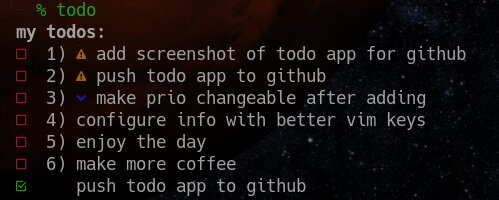
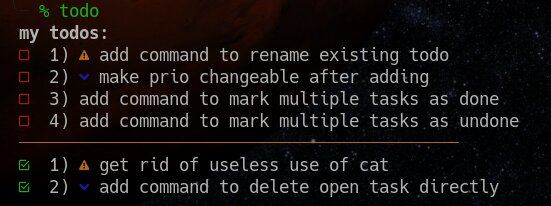
added trash command

diff --git a/README.md b/README.md
@@ -7,11 +7,12 @@ wanting to learn coreutils.
 
 ## usage
 
-* `todo` lists currently open and completed tasks
-* `todo add some task` adds 'some task' to the list of open tasks
-* `todo done N` marks the Nth task as completed
-* `todo undo N` marks the Nth completed task as not done
-* `todo clean` purges completed tasks off the lists
+* `todo.zsh`                  prints current open and completed todos
+* `todo.zsh add some task`    adds 'some task' as open todo
+* `todo.zsh clean`            clears completed todos off the list
+* `todo.zsh done N`           marks the Nth todo as completed
+* `todo.zsh trash N`          deletes the Nth open todo
+* `todo.zsh undo N`           marks the Nth completed todo as not done
 
 You can mark a task as high priority by including `:high:` somewhere
 in the task name. Similarily you can mark a task as low priority by
@@ -33,6 +34,16 @@ creating a directory like `~/.todos` manually and changing the `FILE_DIR`
 variable to an absolute path. Files will be automatically created if they
 don't exist.
 
-You might also want to symlink the `todo` script to `~/.local/bin` or 
-another directory in your `PATH` for ease of access.
+You might also want to symlink the `todo.zsh` script to `~/.local/bin/todo`
+or another directory in your `PATH` for ease of access.
+
+## upgrading
+
+As always, it is good practice to make backups of the `todo.txt` and `done.txt`
+files before upgrading this application.
+
+I've changed the way the content of both tiles is interpreted after v1.0.0:
+If you upgrade from v1.0.0 or earlier, an upgrade works fine if you `todo.zsh clean`
+before the upgrade. Otherwise your done tasks appear in both lists, but another
+`todo.zsh done N` for those will fix it.
 
